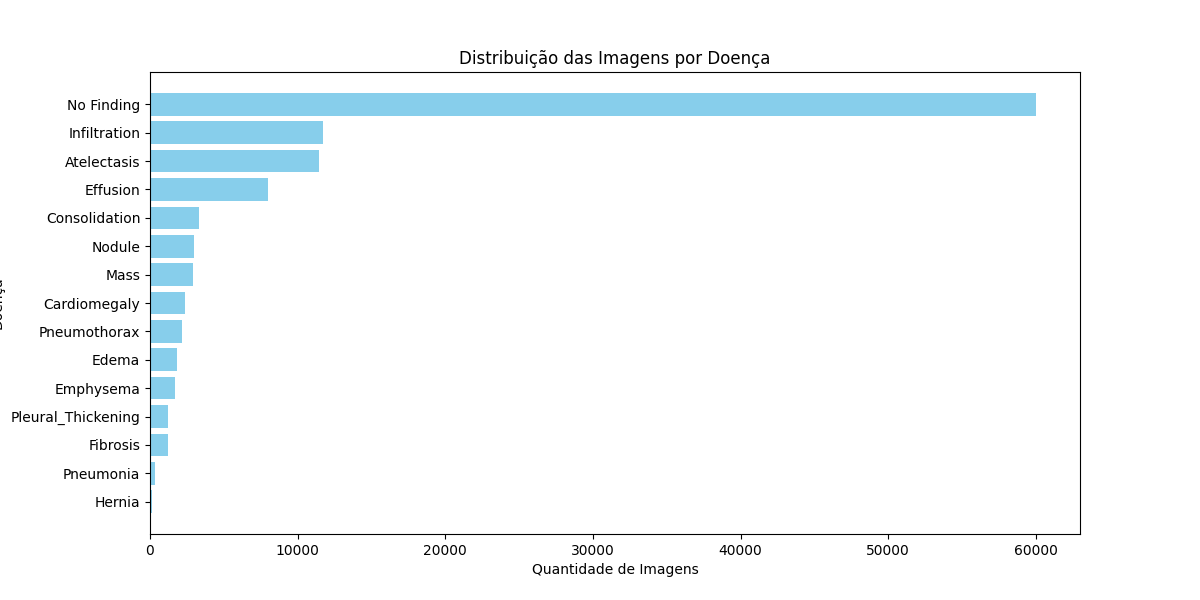
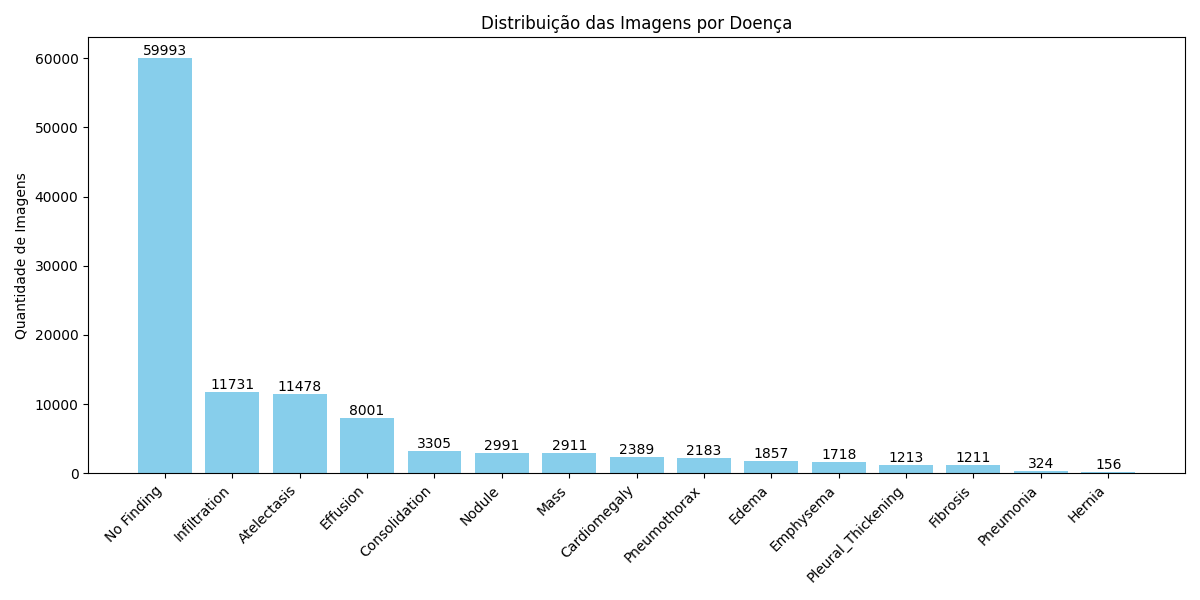
Extra

diff --git a/AmostraNumericaDoencas.py b/AmostraNumericaDoencas.py
@@ -1,0 +1,25 @@
+import matplotlib.pyplot as plt
+
+# Seus dados
+doencas = ["No Finding", "Infiltration", "Atelectasis", "Effusion", "Consolidation",
+           "Nodule", "Mass", "Cardiomegaly", "Pneumothorax", "Edema",
+           "Emphysema", "Pleural_Thickening", "Fibrosis", "Pneumonia", "Hernia"]
+
+quantidades = [59993, 11731, 11478, 8001, 3305, 2991, 2911, 2389, 2183, 1857,
+               1718, 1213, 1211, 324, 156]
+
+plt.figure(figsize=(12, 6))
+bars = plt.bar(doencas, quantidades, color='skyblue')
+
+# Adicionar os valores acima das barras
+for bar in bars:
+    yval = bar.get_height()
+    plt.text(bar.get_x() + bar.get_width()/2, yval, str(yval), ha='center', va='bottom', fontsize=10)
+
+plt.xticks(rotation=45, ha="right")
+plt.ylabel("Quantidade de Imagens")
+plt.title("Distribuição das Imagens por Doença")
+
+plt.tight_layout()
+plt.savefig("distribuicao_doencas.png")  # Salva o gráfico
+plt.show()
